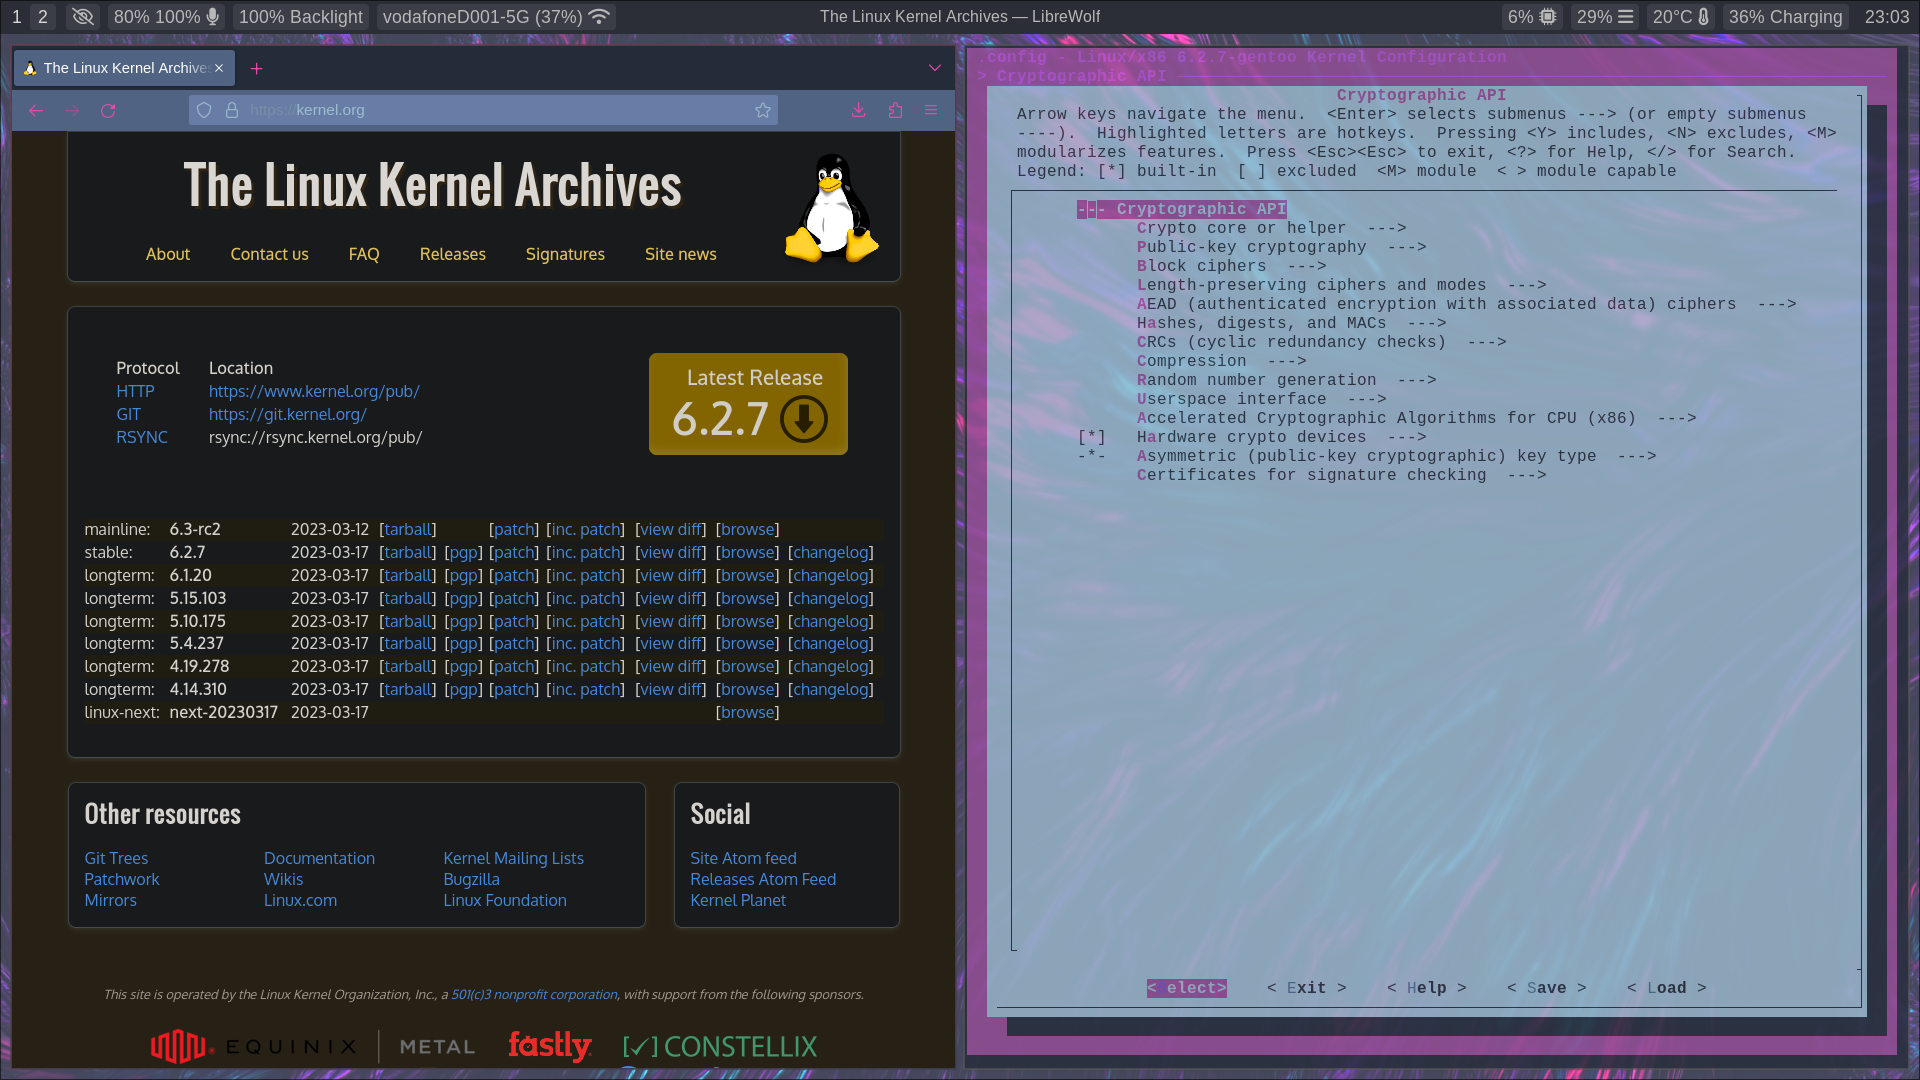
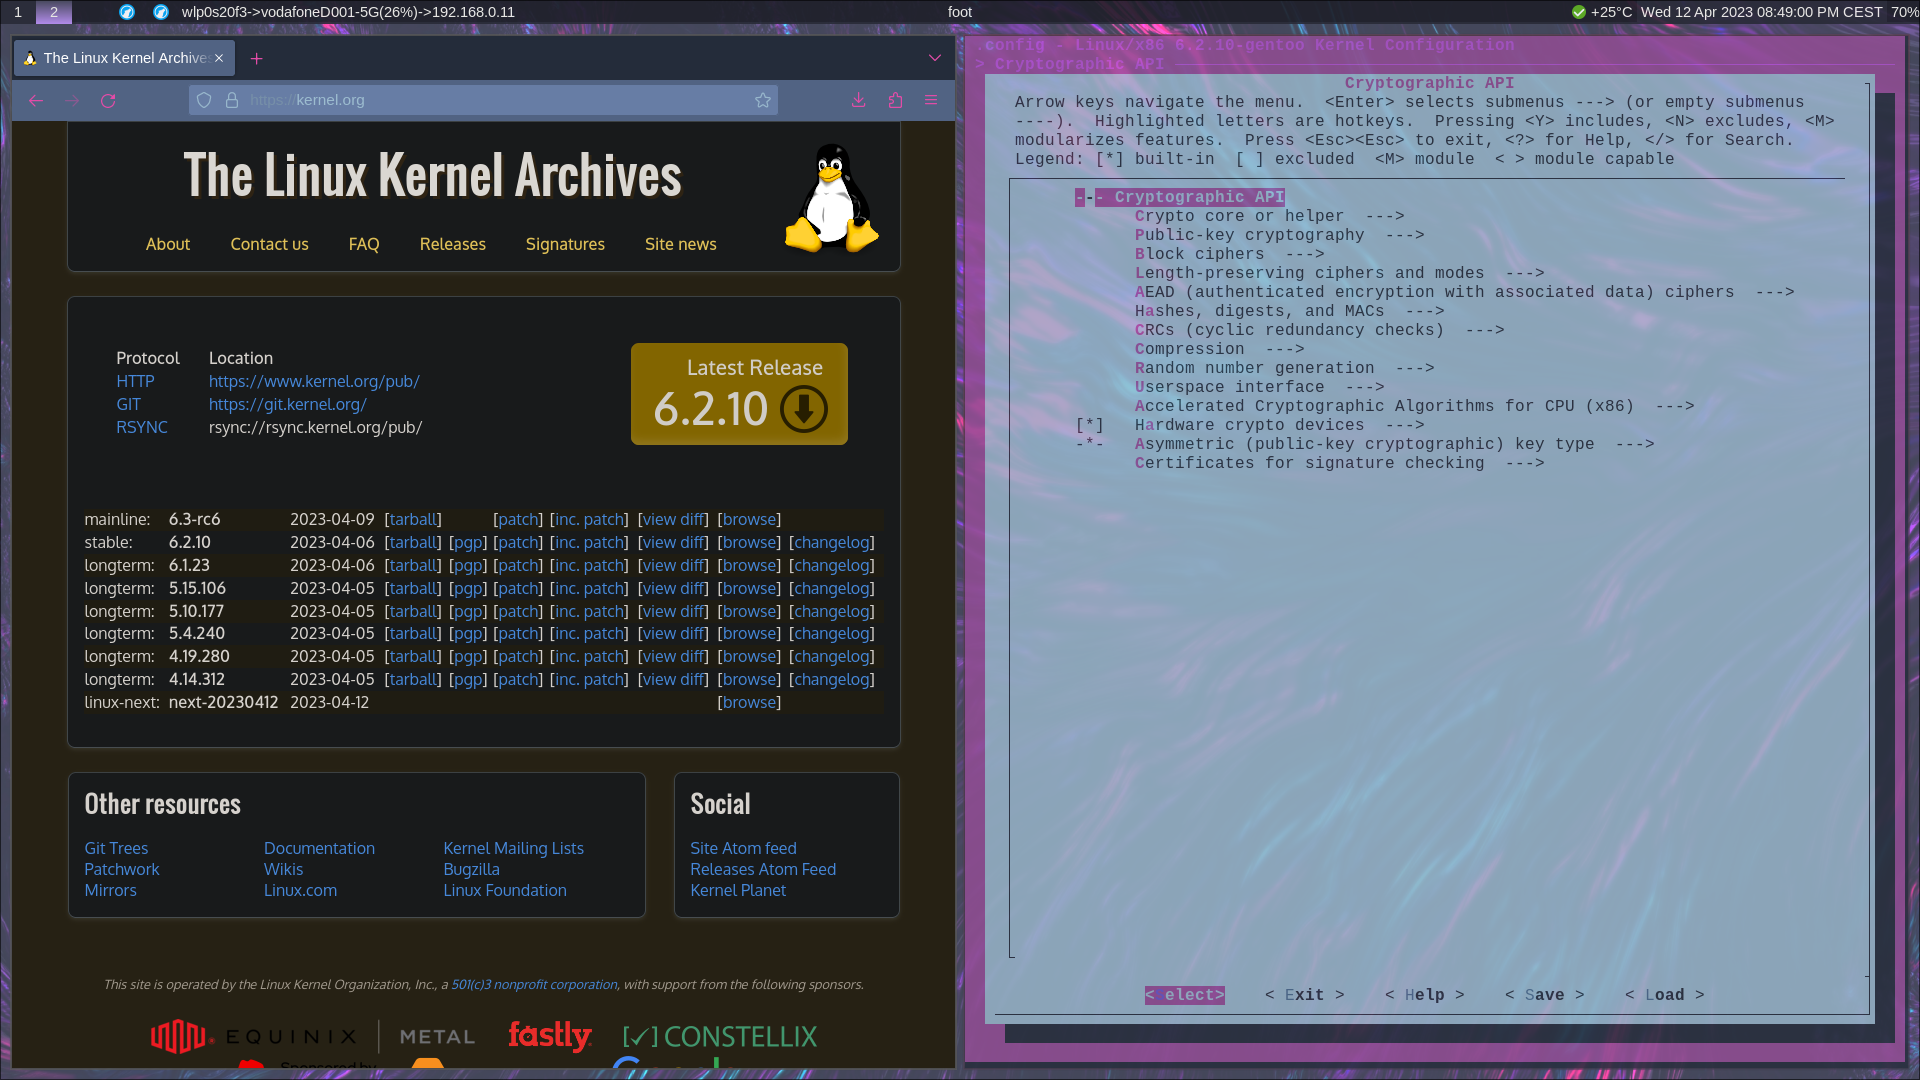
new file:   .config/waybar/colors.css 	modified:   .config/waybar/config 	modified:   .config/waybar/style.css 	new file:   .config/waybar/wittr.sh 	modified:   attachments/ric3.png 	modified:   attachments/rice.png

diff --git a/.config/waybar/style.css b/.config/waybar/style.css
@@ -1,98 +1,34 @@
-@define-color base00 #181818;
-@define-color base01 #2b2e37;
-@define-color base02 #3b3e47;
-@define-color base03 #585858;
-@define-color base04 #b8b8b8;
-@define-color base05 #d8d8d8;
-@define-color base06 #e8e8e8;
-@define-color base07 #f8f8f8;
-@define-color base08 #ab4642;
-@define-color base09 #dc9656;
-@define-color base0A #f7ca88;
-@define-color base0B #a1b56c;
-@define-color base0C #86c1b9;
-@define-color base0D #7cafc2;
-@define-color base0E #ba8baf;
-@define-color base0F #a16946;
-
+@import url("./colors.css");
 * {
-  transition: none;
-  box-shadow: none;
+    border: none;
+    border-radius: 0;
+    font-family: Iosevka;
+    font-size: 11pt;
+    min-height: 0;
 }
-
-#waybar {
-	font-family: 'Source Code Pro', sans-serif;
-	font-size: 1.2em;
-	font-weight: 400;
-  color: @base04;
-  background: @base01;
+window#waybar {
+    opacity: 0.9;
+    background: @background-darker;
+    color: @foreground;
+    border-bottom: 2px solid @background;
 }
-
-#workspaces {
-  margin: 0 4px;
-}
-
 #workspaces button {
-  margin: 4px 0;
-  padding: 0 4px;
-  color: @base05;
+    padding: 0 10px;
+    background: @background;
+    color: @foreground;
 }
-
-#workspaces button.visible {
+#workspaces button:hover {
+    box-shadow: inherit;
+    text-shadow: inherit;
+    background-image: linear-gradient(0deg, @selection, @background-darker);
 }
-
 #workspaces button.active {
-  border-radius: 4px;
-  background-color: @base02;
+    background-image: linear-gradient(0deg, @purple, @selection);
 }
-
-#workspaces button.urgent {
-  color: rgba(238, 46, 36, 1);
+#taskbar button.active {
+    background-image: linear-gradient(0deg, @selection, @background-darker);
 }
-
-#tray {
-  margin: 4px 4px 4px 4px;
-  border-radius: 4px;
-  background-color: @base02;
-}
-
-#tray * {
-  padding: 0 6px;
-  border-left: 1px solid @base00;
-}
-
-#tray *:first-child {
-  border-left: none;
-}
-
-#mode, #battery, #cpu, #memory, #network, #pulseaudio, #idle_inhibitor, #backlight, #custom-storage, #custom-updates, #custom-weather, #custom-mail, #clock, #temperature {
-  margin: 4px 2px;
-  padding: 0 6px;
-  background-color: @base02;
-  border-radius: 4px;
-  min-width: 20px;
-}
-
-#pulseaudio.muted {
-  color: @base0F;
-}
-
-#pulseaudio.bluetooth {
-  color: @base0C;
-}
-
 #clock {
-  margin-left: 0px;
-  margin-right: 4px;
-  background-color: transparent;
-}
-
-#temperature.critical {
-  color: @base0F;
-}
-
-#window {
-  font-size: 0.9em;
-	font-weight: 400;
-	font-family: sans-serif;
+    padding: 0 4px;
+    background: @background;
 }

diff --git a/.config/waybar/colors.css b/.config/waybar/colors.css
@@ -1,0 +1,12 @@
+@define-color background-darker rgba(30, 31, 41, 230);
+@define-color background #282a36;
+@define-color selection #44475a;
+@define-color foreground #f8f8f2;
+@define-color comment #6272a4;
+@define-color cyan #8be9fd;
+@define-color green #50fa7b;
+@define-color orange #ffb86c;
+@define-color pink #ff79c6;
+@define-color purple #bd93f9;
+@define-color red #ff5555;
+@define-color yellow #f1fa8c;
